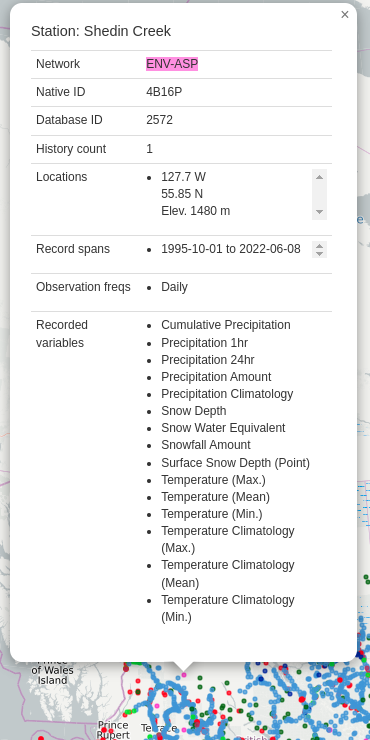
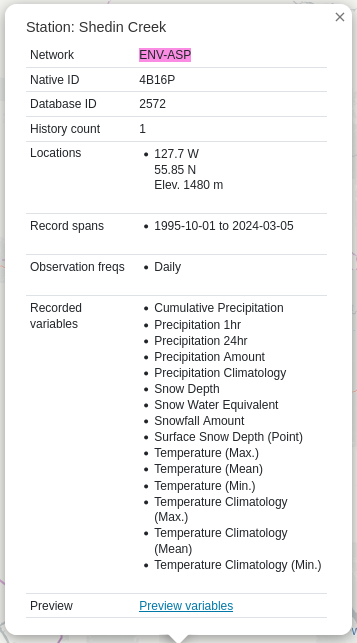
#178 Add some user documentation for preview

Changed region(s): [[0.0, 0.0, 1.0, 1.0], [0.0924, 0.311, 0.3697, 0.5288]]

diff --git a/docs/user/root.rst b/docs/user/root.rst
@@ -237,6 +237,49 @@ an example:
 
 To dismiss the popup, click the **X** in the upper right corner.
 
+In addition to basic metadata, the popup contains a link to the
+**Station Preview** screen which allows you to view more detail on the 
+specific variables available on the station as well a s a subset of the 
+observations rendered in a graphical view.
+
+Station Preview
+~~~~~~~~~~~~~~~
+
+The **Station Preview** screen allows a more specific view of an individual
+Station history. The screen is made up of a few sections.
+
+.. figure:: ./images/preview-title.png
+     
+    *Preview Title example*
+
+The preview title is a collapsible section that initially shows the station name
+and the estimated range of available variables. Click the title to expand the
+section and see the stations lat/long location as well as elevation and province.
+
+.. figure:: ./images/preview-range-controls.png
+     
+    *Preview Range Controls*
+
+The range controls allow you to select a date range for the observations you want to
+preview. This can be done in a few ways:
+
+  - Clicking the range slider will shift the range to the left or right
+  - Dragging the handles on the range will likewise adjust the time range
+  - Selecting a duration from the dropdown will change the resolution of the graphs by increasing or decreasing the number of observations shown
+  - Selecting a specific date from the date picker will adjust the range to that date
+
+(The range slider control does a best effort to show the date range of available variables 
+for a station but due to limitations in our current data does render potential gaps if a
+piece of data's collection was stopped and re-started)
+
+.. figure:: ./images/preview-graphs.png
+     
+    *Preview Graphs Example*
+
+The graphs section displays a visual graph of the observations for the selected time range.
+Alongside the graph is a legend with basic data about the variable. This legend can be hidden
+by toggling the show/hide legend button in the range controls for more graph space.
+
 Bulk metadata
 ~~~~~~~~~~~~~
 
@@ -355,27 +398,44 @@ ways.
 Station Listings
 ^^^^^^^^^^^^^^^^
 
-If you are interested in exploring the station offerings in a hierarchical listing format (as opposed to a map), we offer a station listings interface available at the URL https://data.pacificclimate.org/data/pcds/lister
+If you are interested in exploring the station offerings in a hierarchical 
+listing format (as opposed to a map), we offer a station listings interface 
+available at the URL https://data.pacificclimate.org/data/pcds/lister
 
-These listing pages lay out the stations in a hierarchy, splitting on raw data vs. climatology ("raw" or "climo"), CRMP network, and finally station. For example, to list all of the climatologies available for the BC Hydro network, one would navigate to https://data.pacificclimate.org/data/pcds/lister/climo/BCH/
+These listing pages lay out the stations in a hierarchy, splitting on raw data 
+vs. climatology ("raw" or "climo"), CRMP network, and finally station. For example, 
+to list all of the climatologies available for the BC Hydro network, one would 
+navigate to https://data.pacificclimate.org/data/pcds/lister/climo/BCH/
 
-The page for a single station includes a simple HTML page that lists all global metadata, all variables for the station, and it provides some form controls to download individual variables. Please note that you must select the checkbox for *each and every* variable that you want to download. None are selected by default, so clicking "Download" without any prior action will result in a bad request.
+The page for a single station includes a simple HTML page that lists all 
+global metadata, all variables for the station, and it provides some form controls 
+to download individual variables. Please note that you must select the checkbox for 
+*each and every* variable that you want to download. None are selected by default, 
+so clicking "Download" without any prior action will result in a bad request.
 
 Advanced/Programmatic Usage
 ^^^^^^^^^^^^^^^^^^^^^^^^^^^
 
-The whole data portal is written using open protocols and an advanced user with some scripting abilities should be able to reasonably script up a bulk download (assuming that the filters on the user interface do not cover your use case).
+The whole data portal is written using open protocols and an advanced user with some 
+scripting abilities should be able to reasonably script up a bulk download (assuming 
+that the filters on the user interface do not cover your use case).
 
-- The data portal speaks OPeNDAP. It should be able to generally do anything that's listed in the `OPeNDAP documentation <https://www.opendap.org/pdf/ESE-RFC-004v1.2.pdf>`_, including subselections with URL query string parameters.
+- The data portal speaks OPeNDAP. It should be able to generally do anything that's 
+- listed in the `OPeNDAP documentation <https://www.opendap.org/pdf/ESE-RFC-004v1.2.pdf>`_, including subselections with URL query string parameters.
 - You can select any number of a station's variables. If you don't specifically request one (or more) you get them all.
 - You can select (or deselect) observations based on simple conditional comparisons (less than, greater than, equal to, not equal to).
 
 Example 1
 ~~~~~~~~~
 
-For your purposes of demonstration, let's assume that a user is interested in downloading data from a whole bunch of Wildfire Management Branch stations, network code "FLNRO-WMB". From our instance of Pydap, you can get a station listing from the `data listing pages <https://data.pacificclimate.org/data/pcds/lister/raw/FLNRO-WMB/>`_.
+For your purposes of demonstration, let's assume that a user is interested in downloading 
+data from a whole bunch of Wildfire Management Branch stations, network code "FLNRO-WMB". 
+From our instance of Pydap, you can get a station listing from the `data listing pages <https://data.pacificclimate.org/data/pcds/lister/raw/FLNRO-WMB/>`_.
 
-If you have a list of network_name/station_ids (where station_id is the id by which it is called *by the network*, then you can patch together a URL for the full data download. For example, if you wanted to download FLNRO-WMB data for station "1002", the URL would be https://data.pacificclimate.org/data/pcds/lister/raw/FLNRO-WMB/1002.rsql.csv
+If you have a list of network_name/station_ids (where station_id is the id by which it
+ is called *by the network*, then you can patch together a URL for the full data download. 
+ For example, if you wanted to download FLNRO-WMB data for station "1002", the URL would 
+ be https://data.pacificclimate.org/data/pcds/lister/raw/FLNRO-WMB/1002.rsql.csv
 
 The file format extension on the end can be
 ``csv``, ``xls``, ``ascii``, or ``nc``.
